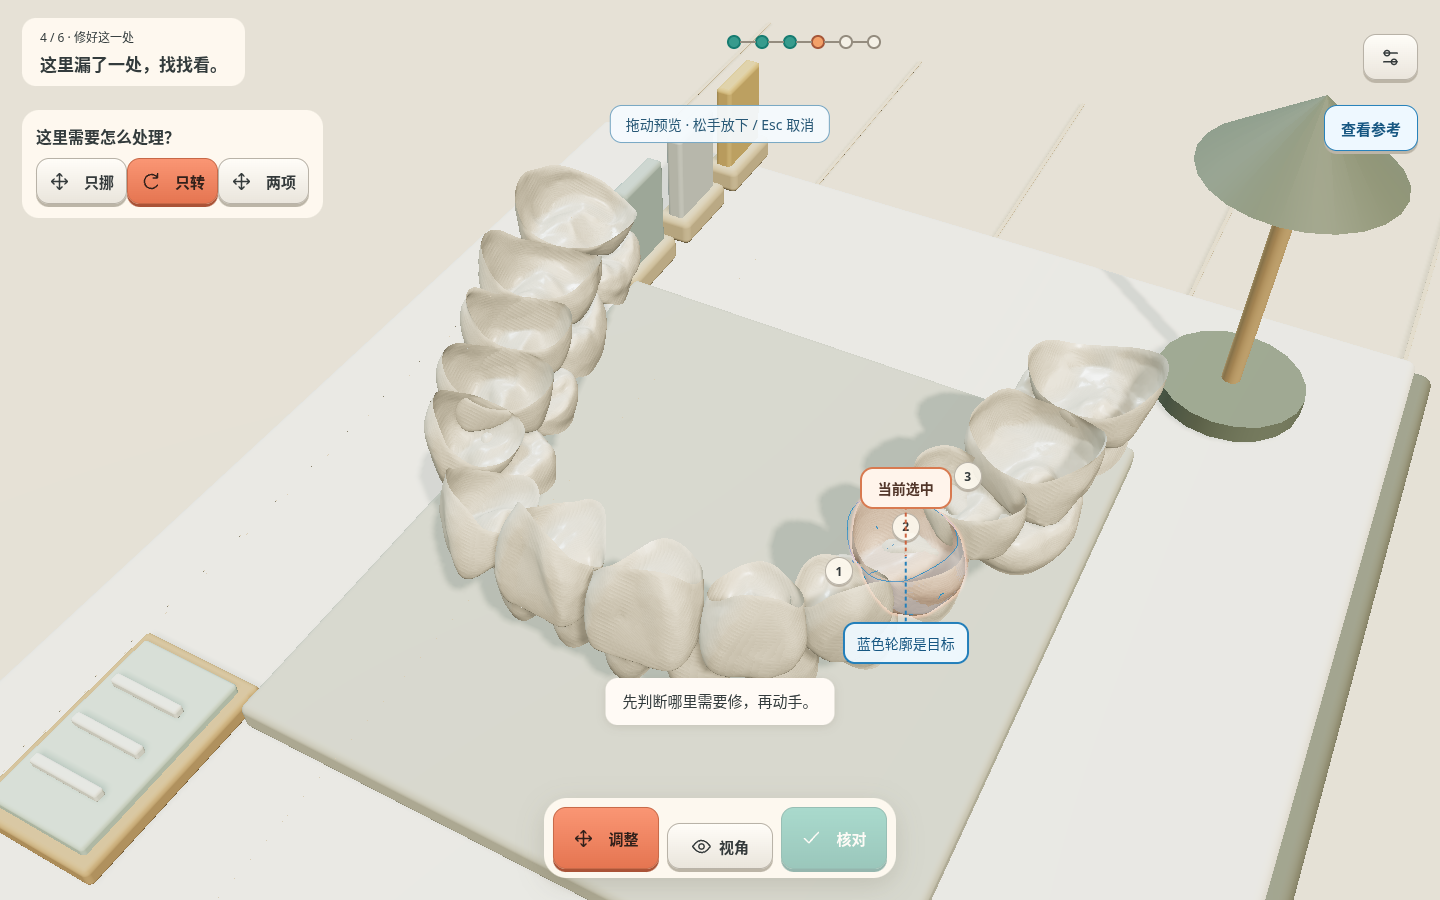
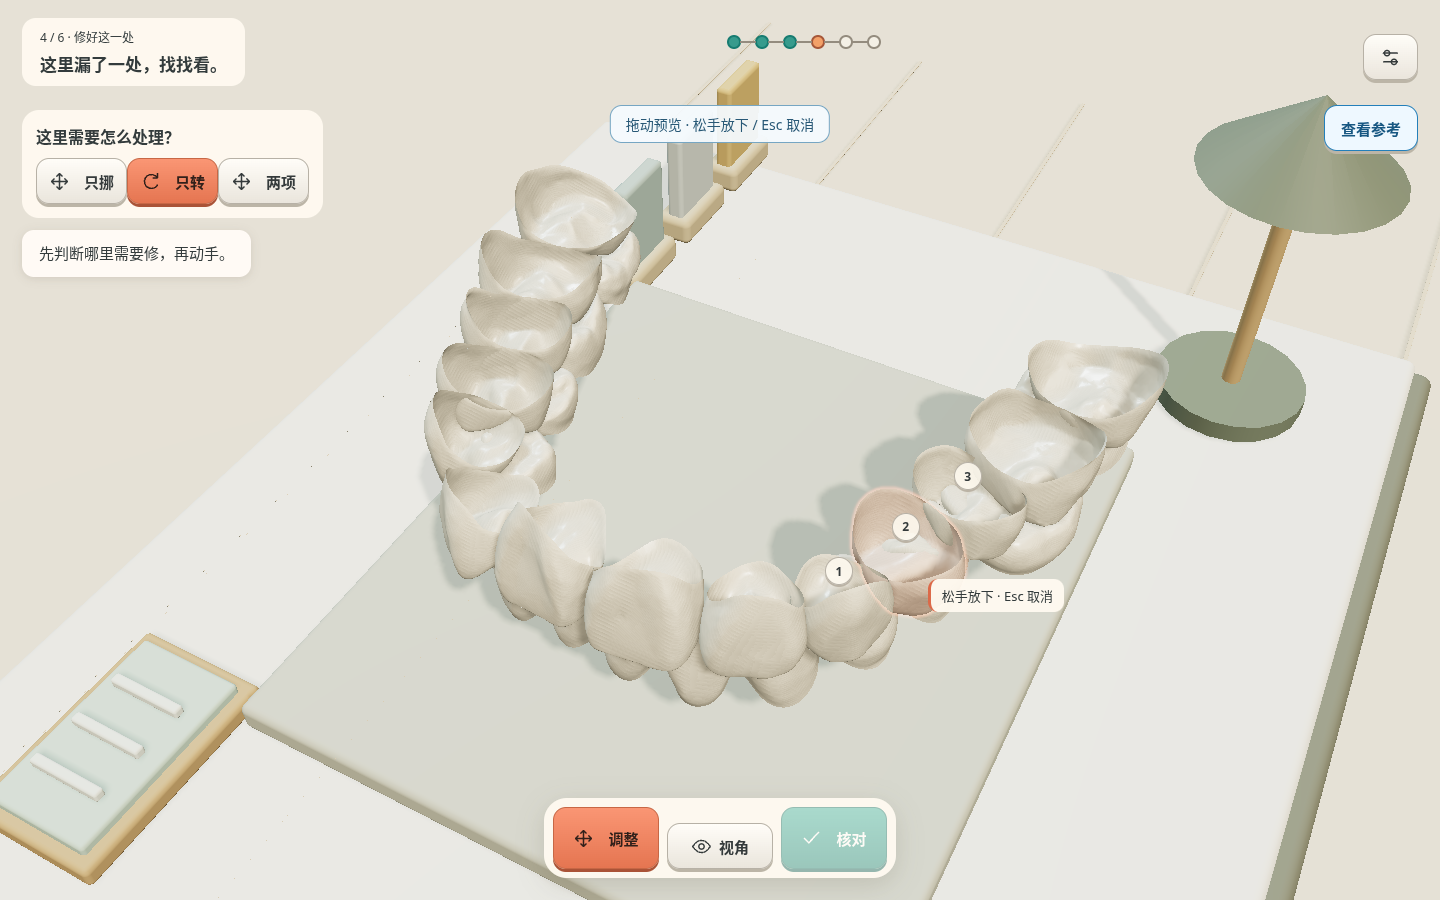
Enable reference outlines and assisted adjustment throughout all six lessons

Changed region(s): [[0.4062, 0.6222, 0.75, 0.8089], [0.0, 0.2489, 0.1875, 0.3111], [0.5938, 0.4978, 0.6875, 0.5911]]

diff --git a/chi-xu-workshop/src/course-workshop.ts b/chi-xu-workshop/src/course-workshop.ts
@@ -46,7 +46,7 @@ export function mountPrediction(
     tool: Tool = lessons[state.stage].tool ?? "translate",
     fine = false,
     axis: Axis = "X",
-    outline = state.stage < 3,
+    outline = true,
     readonly = false,
     replay = false,
     pending = false,
@@ -126,7 +126,10 @@ export function mountPrediction(
     const panel = el("#course-adjust");
     const feedbackBox = el("#course-feedback"),
       desktop = scene.host.clientWidth >= 650;
-    feedbackBox.style.top = desktop ? "110px" : "";
+    const guessBox = el("#course-guess");
+    feedbackBox.style.top = desktop
+      ? `${guessBox.hidden ? 110 : guessBox.getBoundingClientRect().bottom + 12}px`
+      : "";
     feedbackBox.style.left = desktop ? "22px" : "50%";
     feedbackBox.style.transform = desktop ? "none" : "translateX(-50%)";
     feedbackBox.style.bottom = desktop
@@ -138,6 +141,18 @@ export function mountPrediction(
     el("#course-guide").dataset.active = String(visible);
     el("#course-guide svg").style.display = visible ? "" : "none";
     for (const edge of guideEdges.values()) edge.visible = false;
+    if (available && !readonly && outline) {
+      for (const targetId of lesson().ids) {
+        const edge = guideEdges.get(targetId)!,
+          target = data.target[targetId];
+        edge.position
+          .fromArray(target.pivot)
+          .add(new Vector3(...target.translation));
+        edge.quaternion.fromArray(target.quaternion);
+        edge.visible = true;
+      }
+      scene.dirty = true;
+    }
     goalArrow.visible = false;
     el("#course-peek").textContent = readonly
       ? "回到操作"
@@ -154,7 +169,7 @@ export function mountPrediction(
     }
     el("#course-task-callout").hidden = !visible;
     el("#course-target-callout").hidden = !visible;
-    el("#course-direction").hidden = !visible || !edit();
+    el("#course-direction").hidden = !visible;
     el("#course-motion-arrow").setAttribute("d", "");
     if (!visible || !id) return;
     const target = data.target[id],
@@ -238,7 +253,16 @@ export function mountPrediction(
     const error = poseError(state.poses[id], target),
       limits = courseLimits(target);
     el<HTMLButtonElement>('[data-course="assist"]').disabled =
-      !edit() ||
+      (!edit() &&
+        !(
+          state.stage === 3 &&
+          selected &&
+          candidate(selected) &&
+          !readonly &&
+          !replay &&
+          !success &&
+          !state.completed
+        )) ||
       pending ||
       (tool === "translate"
         ? error.position <= limits.position
@@ -319,11 +343,7 @@ export function mountPrediction(
     );
     scene.ghostsAt(
       !readonly && !replay && outline
-        ? Object.fromEntries(
-            lesson()
-              .ids.filter((id) => state.stage < 3 || id === selected)
-              .map((id) => [id, data.target[id]]),
-          )
+        ? Object.fromEntries(lesson().ids.map((id) => [id, data.target[id]]))
         : null,
     );
     ui();
@@ -568,7 +588,7 @@ export function mountPrediction(
     undo.length = redo.length = 0;
     tool = lesson().tool ?? "translate";
     selected = state.stage < 3 || state.stage === 4 ? lesson().ids[0] : null;
-    outline = state.stage < 3;
+    outline = true;
     feedback = state.stage === 1 ? "位置不动，这次转方向。" : "";
     el("#course-adjust").hidden = true;
     paint();
@@ -631,6 +651,25 @@ export function mountPrediction(
     if (a === "close-help") {
       el("#course-help").hidden = true;
       return;
+    }
+    if (
+      a === "assist" &&
+      state.stage === 3 &&
+      selected &&
+      candidate(selected) &&
+      !readonly &&
+      !replay &&
+      !success &&
+      !state.completed &&
+      !pending &&
+      !state.guess[`3:${selected}`]
+    ) {
+      const intent = structuredClone(state);
+      intent.guess[`3:${selected}`] = tool;
+      if (!save(intent)) {
+        paint();
+        return;
+      }
     }
     if (a === "assist" && selected && edit() && !pending) {
       const id = selected;

diff --git a/chi-xu-workshop/docs/SPATIAL_COURSE.md b/chi-xu-workshop/docs/SPATIAL_COURSE.md
@@ -47,3 +47,6 @@
 ## 2026-11-04 更清晰的操作方向与近似达标
 每颗牙使用固定、可复现的宽容范围：参考平移幅度的一半夹在0.2—0.35u之间，参考转角的一半夹在5—8°之间。小幅任务保留原条件，大幅任务更宽容；初始任务仍不能直接全部过关。所有判定、反馈和保存校验共用courseLimits，不依赖镜头或点击次数。
 显示上区分灰色文字引线与蓝色实心操作箭头；平移方向根据当前镜头显示左右/上下及朝向/远离玩家，旋转弧线依据实际剩余四元数差绘制。逐项显示位置/方向是否已足够接近。玩家可主动点“按提示微调”：仅将当前工具对应的差距缩小一半，可撤销、会记录真实操作，不吸附、不改另一分量、不自动核对。找错关仍须先作预判，未请求参考的后关不预揭示答案。
+
+## 2026-11-05 六关统一默认参考与辅助
+按用户最新要求，六关（含第四、五、六关）进入时默认显示本关所有候选牙的蓝色目标边线与参考轮廓，选牙后出现方向和按提示微调；不再要求后关先从工具菜单开启参考。每次进入下一关默认重新启用，仍可手动关闭。第四关允许主动使用辅助表达预判：若尚未填写，记录玩家当前选用的工具（平移/旋转），不是读取正确答案替玩家作答；随后仍走同一移动校验、记录、撤销与核对流程。手动预判继续保留，已有预判不会被辅助覆盖。已达标的工具分量会禁用辅助并提示换工具或核对。桌面反馈移到预判面板下方，防止遮住判断标题。所有位姿、容差与既有进度保持原样。

diff --git a/chi-xu-workshop/docs/VALIDATION.md b/chi-xu-workshop/docs/VALIDATION.md
@@ -1,3 +1,9 @@
+## 2026-11-05 六关统一默认参考与辅助微调
+
+基础六关默认显示所有本关候选牙的真实目标边线，选中后统一显示方向和辅助入口，第四至第六关不再默认关闭。第四关若未填预判，主动使用辅助时记录当前工具为操作预判；已有预判保留，核心moveCourse依然要求预判，存档与位姿校验不绕过。反馈按预判面板实际高度移到下方，避免遮挡。源网格、参考变换、课程起点、容差和旧进度未改。
+
+97项单元检查与构建通过。4个浏览器用例分轮检查：第三关参考/只读/存档/手机回归；找错与终章入口回归；旧找错拖动/取消/撤销回归；新增逐一进入六关，核对全部候选目标线数量与实际辅助移动、非选中牙不变、第四关隐式工具预判及反馈不遮挡、第六关手机可达。旧找错用例原本只挪0.25u就要求越过容差，因此前已放宽至最高0.35u，将真实移动改为两步0.5u并撤销两步后重跑验证，未收紧产品容差。第四关桌面和第六关手机截图 course-fourth-reference.png / course-sixth-reference-mobile.png 已目视检查。Windows本机更新未在云端执行。
+
 ## 2026-11-04 近似达标范围、明确方向与可撤销辅助微调
 
 基础课程改用courseLimits按参考变化量设置固定宽容区间：平移幅度一半夹在0.2—0.35u，旋转幅度一半夹在5—8°；任何牙都不比此前0.2u/5°更严格。沿用同一判定于核对、反馈、找遗漏、历史校验。六关初始任务仍存在待处理项；所有真实牙模、目标、起点和旧模式条件不变。
